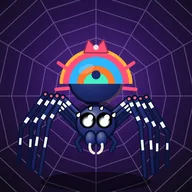
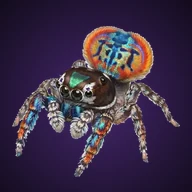
Games: use the realistic painted spiders for Silkbound
Claude-Session: https://claude.ai/code/session_01Vyt8p7k3AmNK3cRaHFNKbf

diff --git a/games.html b/games.html
@@ -125,8 +125,9 @@ header nav a[aria-current]{font-weight:600}
 /* banners for games without store art */
 .b-flutter{background:radial-gradient(60% 80% at 50% 110%,#B9E3A5 0%,transparent 70%),linear-gradient(180deg,#CFEFFF 0%,#EAF8E4 75%)}
 .b-flutter img{position:absolute;left:66%;top:44%;width:44%;transform:translate(-50%,-50%) rotate(-10deg);filter:drop-shadow(0 12px 14px rgba(40,70,30,.28))}
-.b-flutter h4,.b-regatta h4,.b-rift h4,.b-dino h4,.b-marble h4{position:absolute;left:24px;bottom:16px;margin:0;font-family:"Fredoka",sans-serif;font-weight:700;font-size:26px;line-height:1}
+.b-silk h4,.b-flutter h4,.b-regatta h4,.b-rift h4,.b-dino h4,.b-marble h4{position:absolute;left:24px;bottom:16px;margin:0;font-family:"Fredoka",sans-serif;font-weight:700;font-size:26px;line-height:1}
 .b-flutter h4{color:#2F5A2A}
+.b-silk h4{color:#F3EEFF;font-size:30px;top:22px;bottom:auto;text-shadow:0 2px 12px rgba(0,0,0,.6)}
 .b-regatta{background:linear-gradient(180deg,#FFD9A8 0%,#FFB98A 36%,#4BA3C7 37%,#1F6E99 100%)}
 .b-regatta svg{position:absolute;inset:0;width:100%;height:100%}
 .b-regatta h4{color:#fff;text-shadow:0 2px 8px rgba(0,0,0,.25)}
@@ -227,7 +228,7 @@ footer .wrap{display:flex;justify-content:space-between;flex-wrap:wrap;gap:16px;
     <p>Nothing to install. These open in your browser on a phone, tablet or computer, and your progress saves on that device.</p>
     <div class="grid two">
       <article class="game" id="silkbound">
-        <a class="art" href="https://claude.ai/artifact/Xt7QAsFydnLBgRobgGLDMx" target="_blank" rel="noopener" tabindex="-1" aria-hidden="true"><img class="cover" src="/img/games/silkbound.webp" alt="" width="1024" height="500" loading="lazy"></a>
+        <a class="art b-silk" href="https://claude.ai/artifact/Xt7QAsFydnLBgRobgGLDMx" target="_blank" rel="noopener" tabindex="-1" aria-hidden="true"><img class="cover" src="/img/games/silkbound.webp" alt="" width="1024" height="500" loading="lazy"><h4>Silkbound</h4></a>
         <div class="info">
           <div class="head"><img src="/img/games/silkbound-icon.webp" alt="" width="48" height="48"><div><h3>Silkbound</h3><span class="tag">Pet spider arena</span></div></div>
           <p>Hatch a spider, raise it and watch it evolve. Breed rare hybrids from over 500 species, then battle through zones and bosses.</p>
